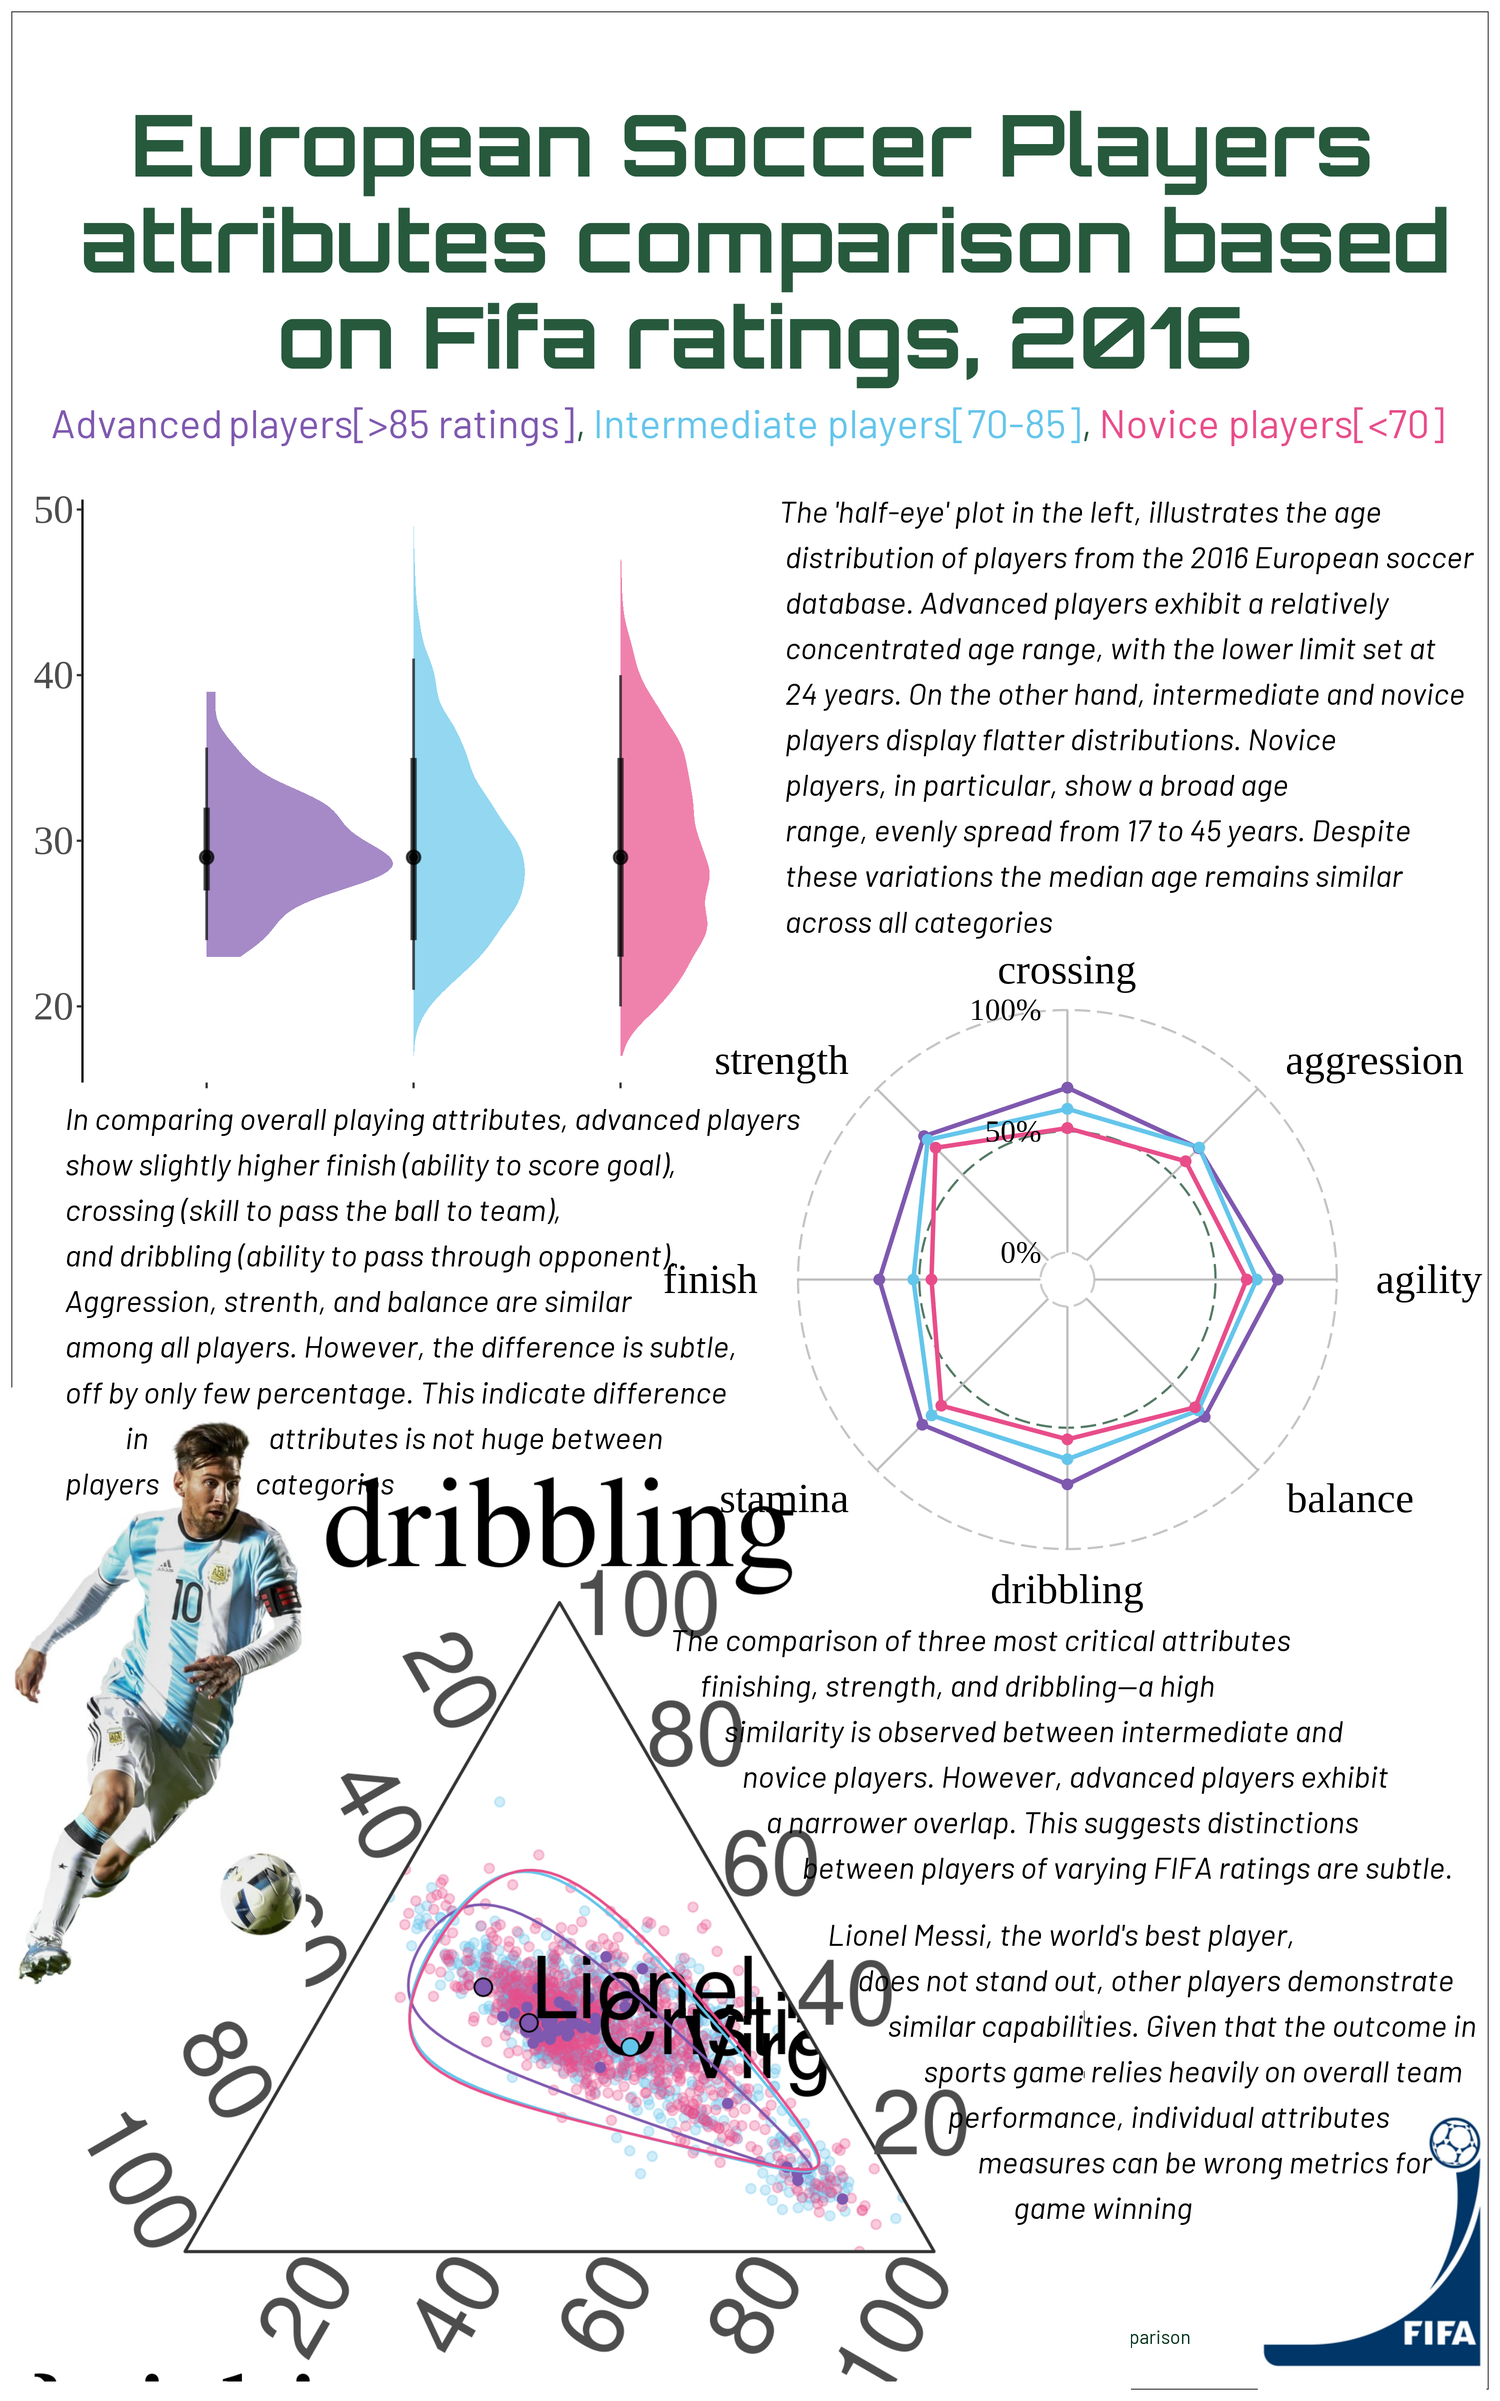
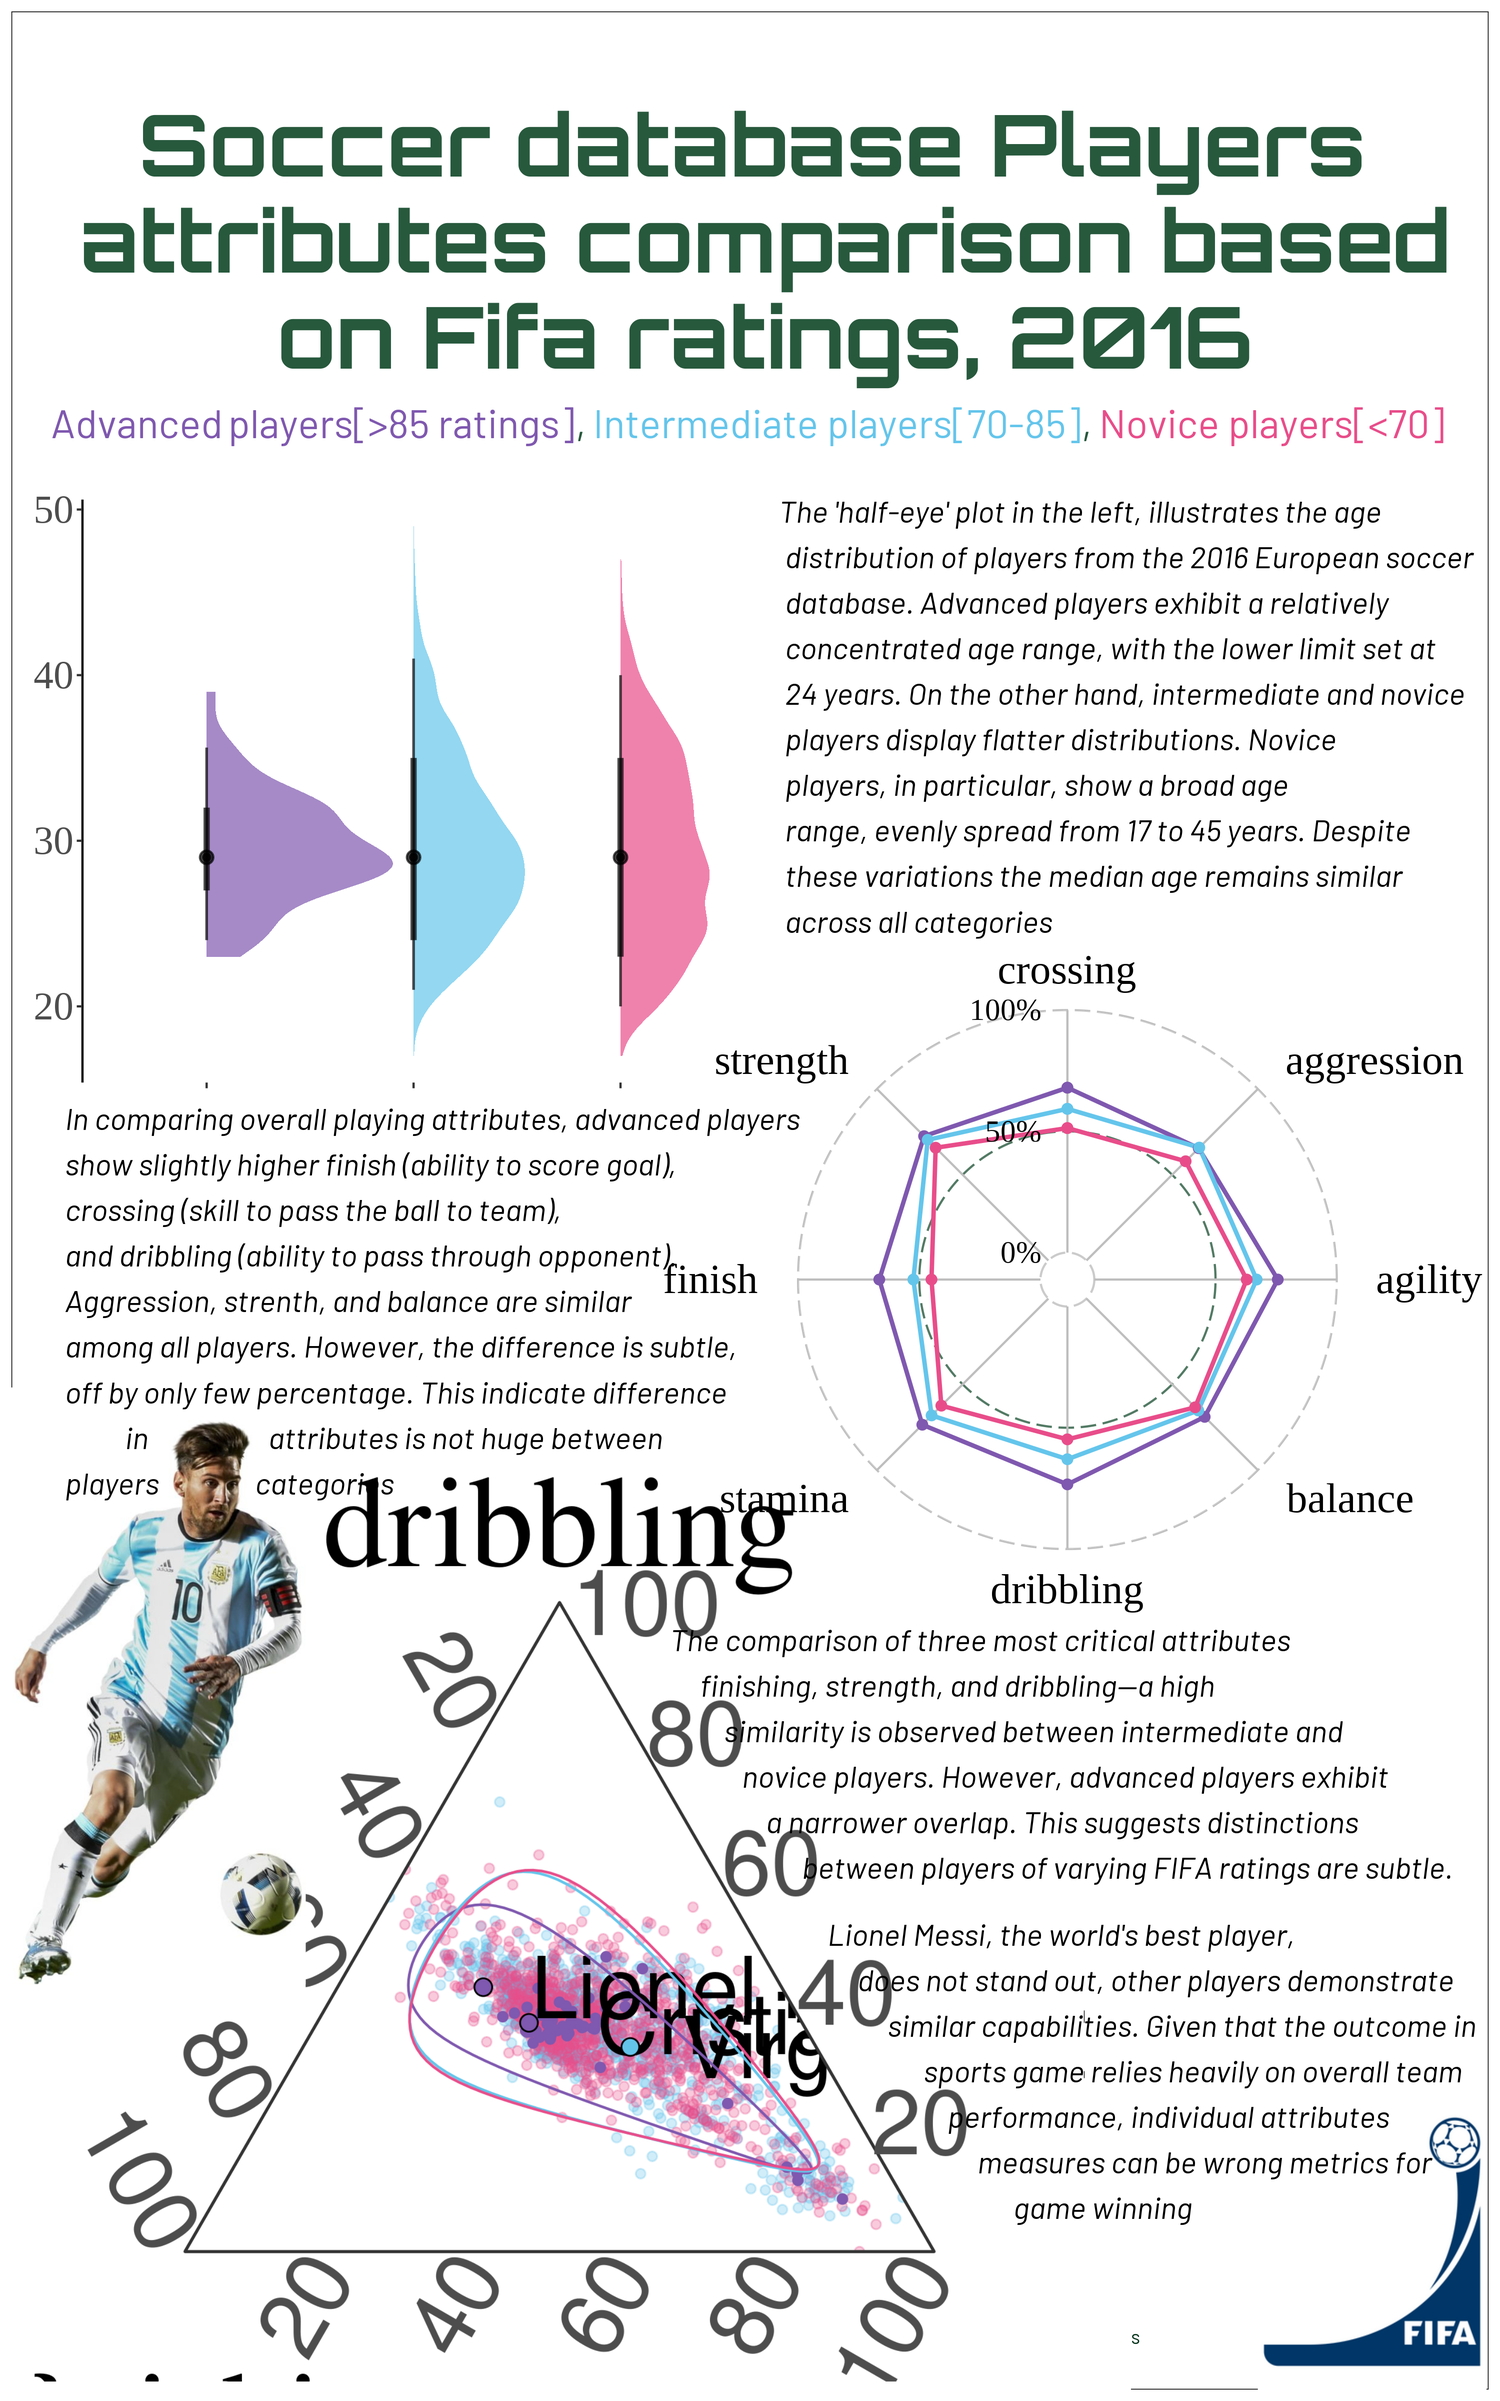
done

Changed region(s): [[0.124, 0.0312, 0.868, 0.0938]]

diff --git a/index.html b/index.html
@@ -99,7 +99,6 @@ code span.wa { color: #60a0b0; font-weight: bold; font-style: italic; } /* Warni
 <link href="index_files/libs/bootstrap/bootstrap.min.css" rel="stylesheet" id="quarto-bootstrap" data-mode="light">
 
 
-<link rel="stylesheet" href="/health_posts/style.css">
 </head>
 
 <body>
@@ -139,12 +138,7 @@ code span.wa { color: #60a0b0; font-weight: bold; font-style: italic; } /* Warni
 <section id="introduction-about-the-project" class="level4">
 <h4 class="anchored" data-anchor-id="introduction-about-the-project">Introduction about the project</h4>
 <p>This project aims to create infographics comparing attributes of soccer players, sourced from a European soccer database available on Kaggle. The database contains data on over 10,000 players. Using R exclusively, the visualization focuses on attributes such as shooting, finishing, strength, age, etc. All tasks, from fetching the data to adding text and aligning elements, are performed using R packages. Special credit is given to the UFO alien template, accessible at <a href="https://github.com/doehm/tidytues/blob/main/scripts/2023/week-25-ufo/ufo.png">UFO link</a></p>
-<p>
-Important Note:
-</p>
-<p>
-The ggplot package version used in this project is 3.4.4, and ggtern version 3.0.0 is utilized. It’s crucial to consider that modern versions of ggplot might conflict when used in combination with other packages employed here.
-</p>
+<p><strong>The ggplot package version used in this project is 3.4.4, and ggtern version is 3.0.0. It’s crucial to consider that modern versions of ggplot conflicts when used in combination with other packages (especially ggtern) employed here.</strong></p>
 <div class="cell">
 
 </div>
@@ -389,7 +383,7 @@ The ggplot package version used in this project is 3.4.4, and ggtern version 3.0
 <span id="cb8-20"><a href="#cb8-20" aria-hidden="true" tabindex="-1"></a>floppy <span class="ot">&lt;-</span> <span class="fu">glue</span>(<span class="st">"&lt;span style='font-family:fa-solid; color:{accent}'&gt;&amp;#xf0c7;&lt;/span&gt;"</span>)</span>
 <span id="cb8-21"><a href="#cb8-21" aria-hidden="true" tabindex="-1"></a>space <span class="ot">&lt;-</span> <span class="fu">glue</span>(<span class="st">"&lt;span style='color:{bg};font-size:1px'&gt;'&lt;/span&gt;"</span>)</span>
 <span id="cb8-22"><a href="#cb8-22" aria-hidden="true" tabindex="-1"></a>space2 <span class="ot">&lt;-</span> <span class="fu">glue</span>(<span class="st">"&lt;span style='color:{bg}'&gt;--&lt;/span&gt;"</span>)</span>
-<span id="cb8-23"><a href="#cb8-23" aria-hidden="true" tabindex="-1"></a>caption <span class="ot">&lt;-</span> <span class="fu">glue</span>(<span class="st">"{mastodon}{space2}@sujan@{space}sujandon.org{space2}{twitter}{space2}@sujan{space2}{github}{space2}sbgithubhm/tidytues{space2}{floppy}{space2}European players attributes comparison"</span>)</span></code><button title="Copy to Clipboard" class="code-copy-button"><i class="bi"></i></button></pre></div>
+<span id="cb8-23"><a href="#cb8-23" aria-hidden="true" tabindex="-1"></a>caption <span class="ot">&lt;-</span> <span class="fu">glue</span>(<span class="st">"{mastodon}{space2}@sujan@{space}sujandon.org{space2}{twitter}{space2}@sujan{space2}{github}{space2}sbgithubhm/tidytues{space2}{floppy}{space2}European players attributes"</span>)</span></code><button title="Copy to Clipboard" class="code-copy-button"><i class="bi"></i></button></pre></div>
 </div>
 <div class="cell">
 <div class="sourceCode cell-code" id="cb9"><pre class="sourceCode r code-with-copy"><code class="sourceCode r"><span id="cb9-1"><a href="#cb9-1" aria-hidden="true" tabindex="-1"></a><span class="co"># Define subtitle with HTML formatting for colors</span></span>
@@ -398,7 +392,7 @@ The ggplot package version used in this project is 3.4.4, and ggtern version 3.0
 <span id="cb9-4"><a href="#cb9-4" aria-hidden="true" tabindex="-1"></a><span class="co">#---------------copy of UFO plot</span></span>
 <span id="cb9-5"><a href="#cb9-5" aria-hidden="true" tabindex="-1"></a>g_base <span class="ot">&lt;-</span> <span class="fu">ggplot</span>() <span class="sc">+</span></span>
 <span id="cb9-6"><a href="#cb9-6" aria-hidden="true" tabindex="-1"></a>  <span class="fu">labs</span>(</span>
-<span id="cb9-7"><a href="#cb9-7" aria-hidden="true" tabindex="-1"></a>    <span class="at">title =</span> <span class="st">"European Soccer Players </span><span class="sc">\n</span><span class="st"> attributes comparison based </span><span class="sc">\n</span><span class="st"> on Fifa ratings, 2016"</span>,</span>
+<span id="cb9-7"><a href="#cb9-7" aria-hidden="true" tabindex="-1"></a>    <span class="at">title =</span> <span class="st">"Soccer database Players </span><span class="sc">\n</span><span class="st"> attributes comparison based </span><span class="sc">\n</span><span class="st"> on Fifa ratings, 2016"</span>,</span>
 <span id="cb9-8"><a href="#cb9-8" aria-hidden="true" tabindex="-1"></a>    <span class="at">subtitle =</span> subtitle,</span>
 <span id="cb9-9"><a href="#cb9-9" aria-hidden="true" tabindex="-1"></a>    <span class="at">caption =</span> caption</span>
 <span id="cb9-10"><a href="#cb9-10" aria-hidden="true" tabindex="-1"></a>    ) <span class="sc">+</span></span>
@@ -508,6 +502,13 @@ The ggplot package version used in this project is 3.4.4, and ggtern version 3.0
 <p><img src="static_image/infographics.png" class="img-fluid" width="1500"></p>
 </div>
 </div>
+<p><strong>For further information and the Initial motivation behind project, please follow below;</strong></p>
+<blockquote class="blockquote">
+<p>In all sports domain, some players always stands out in popularity. For example, Lebron James in Basketball, Khabib Nurmagomedov in UFC, Serena Williams in Tennis, and Lionel Messi and Cristiano Ronaldo in Soccer. But why do some players always stand out ? Does it relates to their ability to perform better than other players ? This is the central question of this project, which will explore how attributes between advanced and novice category differs.</p>
+<p>The project utilizes the soccer dataset from European soccer database, which has data about more than 10000 players and currently open source at Kaggle website. The dataset contains all information about every games played, home goals wins for teams, aways goals wins or losses, individual players attributes like shooting, strength, skill, balance, kicking, crossing, volleying and all other attributes that are described in soccer playing. This project only utilizes the player attributes data and not the team data, and explores the players attributes. The players will first be categorized into advanced, intermediate, and novice based on fifa ranking. Fifa ranking is available for each of those players, which is a average ratings of the overall performance of the player since 2008 season to 2016. All players with average ratings higher than 85 are classified as advanced player, 70-85 as intermediate, and &lt;70 as novice players.</p>
+<p>For the infographics design, all information and codes help is archived from UFO infographics template. All designed are done only inside R and no other graphical editing softwares will be used. Three of the graphics: eyeplot, radar plot, and tern plot is used for attributes comparison. The base template will be created with ggplot which will have all other plots overlaid over it. The title and subtitle will be highlighted at the top. The subtitle will explains players and their category. For example: all advanced players in the infographics is represented as purple color, and that thing is shown from how subtitle is highlighted. The colors are chosen neutral in appearance with excellent contrast for quick differentiation. These colors are supposed to be colorblind friendly. The text sizes, themes, background, and spacing are all first defined based on the base template of the infographics. To avoid information overloading, none of the legend and axis are kept, since quick explanation at the paragraph should be sufficient. Some top performers like Lionel messi, Cristiano Ronaldo, and Virgil van Djik, who are some of the most popular players, are highlighted and annotated to contextualize the data. This should help where the worlds famous players stand. All my plots also centers the message about attributes comparison among different category soccer players. For example, the ternary plot will have the circled grouped data based on 95% confidence interval for all categories. This should help where categories overlap. This approach was able to show the high overlapped categories.</p>
+The DEI approach is not satisfied for this plot, because in order to understand what player attributes are, an audience should be knowledged about the soccer games. So, this infographics is designed only for soccer fans, and none else. This data-viz project concludes that the difference between advanced and novice category is subtle.
+</blockquote>
 </section>
 
 </main>
